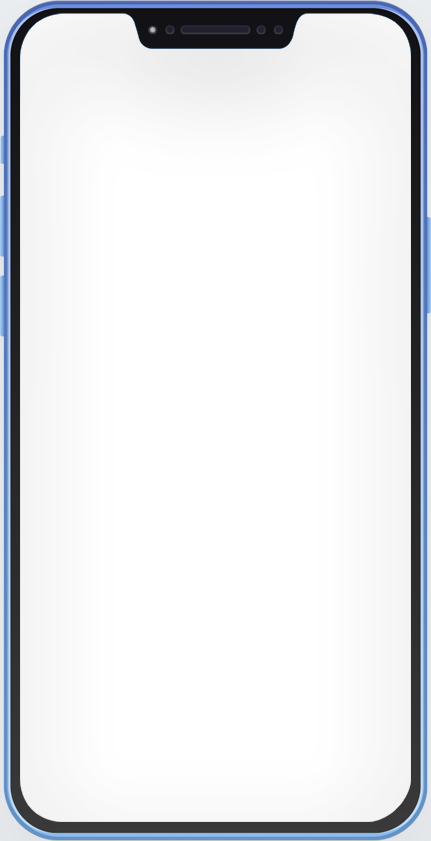
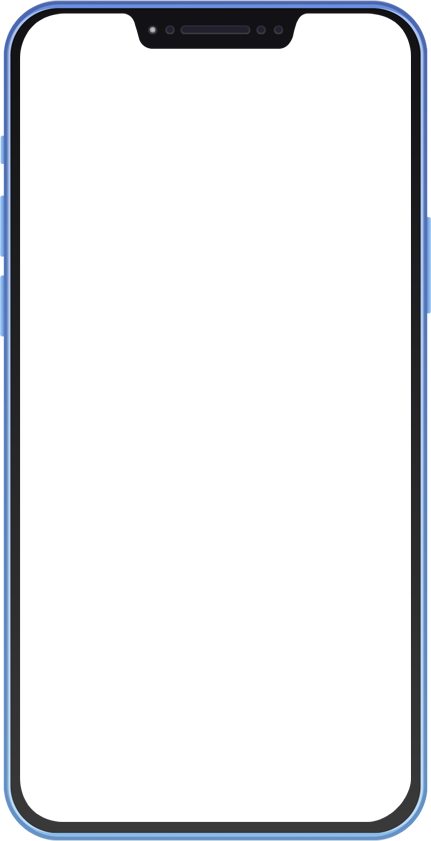
修改

diff --git a/industry.html b/industry.html
@@ -246,7 +246,7 @@
         </div>
 
 
-        <div class="industry-wrapper w-full pb-16 back-gray">
+        <div class="industry-wrapper w-full pb-16 bg-[#eef1f4]">
           <div class="industry-phone-wrap h-[auto] md:h-[100vh] flex items-center w-11/12 flex-col md:flex-row mx-auto py-[15vh]">
             <div class="w-full md:w-[33%]  flex items-center justify-center">
               <span class="text-5xl font-bold font-semi-bold">HEALTH CARE</span>
@@ -271,7 +271,7 @@
           <div class="industry-section w-11/12 mx-auto relative md:flex gap-6">
             
             <div class="flex-[0_0_auto] md:w-[40%]">
-              <div class="flex md:h-full flex-col justify-between">
+              <div class="flow-up flex md:h-full flex-col justify-between">
                 <div>
                   <div class="company-head flex items-center gap-4">
                     <div class="log w-24 h-24 bg-white rounded-[2.5rem] p-4 overflow-hidden"><img class="w-full" src="./images/industry//Industry_logo.png" /></div>

diff --git a/style/public.css b/style/public.css
@@ -34,7 +34,6 @@
     --font-weight-bold: 700;
     --radius-md: 0.375rem;
     --radius-lg: 0.5rem;
-    --ease-out: cubic-bezier(0, 0, 0.2, 1);
     --aspect-video: 16 / 9;
     --default-transition-duration: 150ms;
     --default-transition-timing-function: cubic-bezier(0.4, 0, 0.2, 1);
@@ -2462,6 +2461,11 @@ body {
 }
 .phoneSwiper {
   aspect-ratio: 1/2;
+  border-radius: 3rem;
+}
+.phoneSwiper .swiper-slide img {
+  width: 96%;
+  margin: auto;
 }
 .phone-react {
   background-image: url(../images/phone.png);
@@ -2474,6 +2478,7 @@ body {
   left: 50%;
   z-index: 10;
   pointer-events: none;
+  filter: drop-shadow(0 1.5rem 3.2rem rgba(0,0,0,1));
 }
 .text-bani-timeline, .industry-ani1 {
   opacity: 0;

diff --git a/scripts/industry.js b/scripts/industry.js
@@ -128,7 +128,7 @@ function execIndustrySwiper() {
     },
   });
 
-  $("#cusSwiperNav2 > div").click(function () {
+  $("#cusSwiperNav2 > div").mouseenter(function () {
     if ($(this).hasClass("on")) return;
     $(this).addClass("on").siblings().removeClass("on");
     bannerSwiper2.slideTo($(this).index());
@@ -147,7 +147,7 @@ function execIndustrySwiper() {
     },
   });
 
-  $("#cusSwiperNav3 > div").click(function () {
+  $("#cusSwiperNav3 > div").mouseenter(function () {
     if ($(this).hasClass("on")) return;
     $(this).addClass("on").siblings().removeClass("on");
     bannerSwiper3.slideTo($(this).index());

diff --git a/style/tailwind-base.css b/style/tailwind-base.css
@@ -1056,6 +1056,11 @@ body{
 }
 .phoneSwiper{
   aspect-ratio: 1/2;
+  border-radius: 3rem;
+}
+.phoneSwiper .swiper-slide img{
+  width:96%;
+  margin: auto;
 }
 .phone-react{
   background-image: url(../images/phone.png);
@@ -1068,6 +1073,7 @@ body{
   left:50%;
   z-index:10;
   pointer-events: none;
+  filter: drop-shadow(0 1.5rem 3.2rem rgba(0,0,0,1));
 }
 .text-bani-timeline,
 .industry-ani1{
